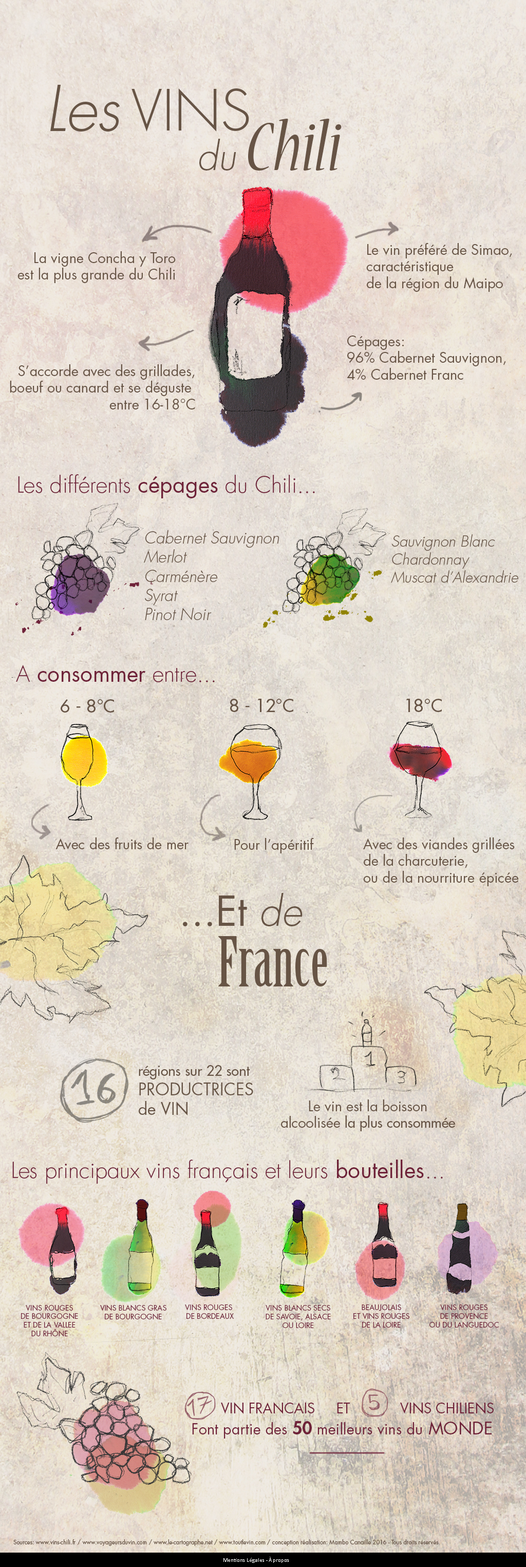
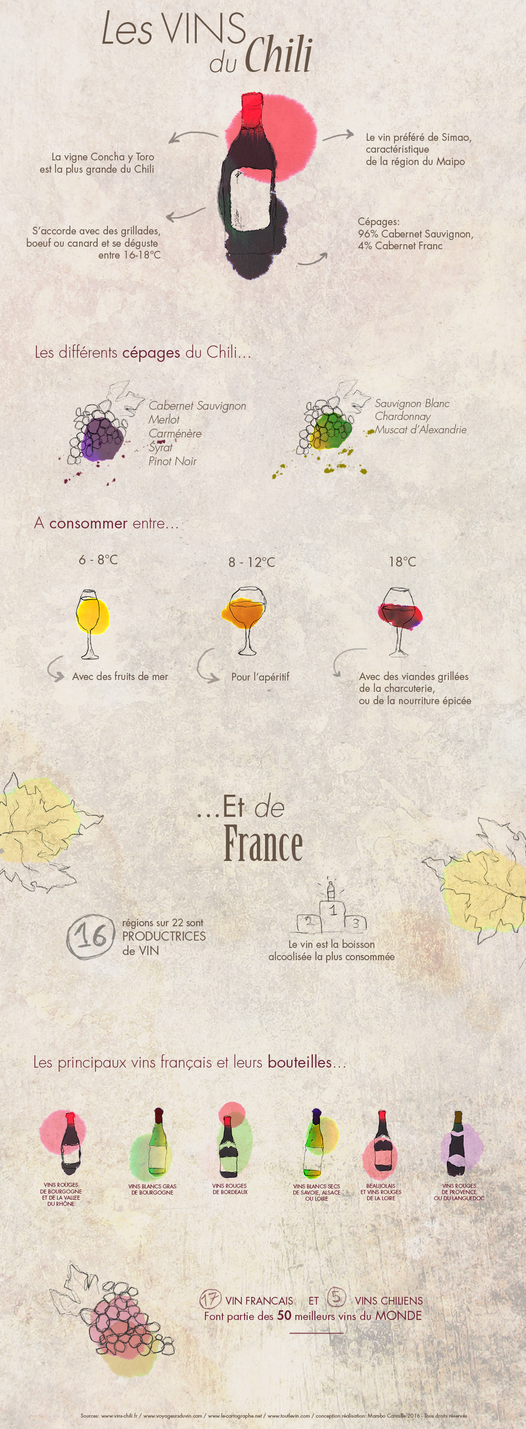
last update

diff --git a/web/vin/default.php b/web/vin/default.php
@@ -18,15 +18,8 @@ include('../default/page/start_header.php');
 
 <!-- Place ici ton contenu -->
 
-<!--img src="img/infographie2.jpg" width="100"-->
-<style> 
-	body{
-		background-image:url(img/pagevinweb.jpg);
-		background-repeat: no-repeat;
-		background-size: cover;
-	}
-	</style>
 
+<img src="img/pagevinweb.jpg" width="100%">
 
 
 <!-- Fin du contenu -->
